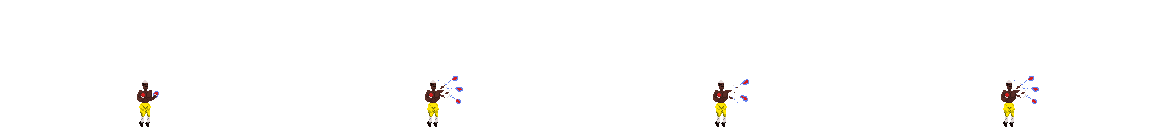
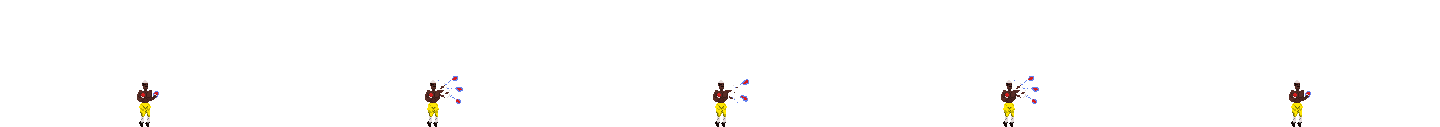
Boxer hitboxes fixed

diff --git a/Batali/Constants.h b/Batali/Constants.h
@@ -129,18 +129,18 @@ namespace constants
 	constexpr float BOXER_SPEED{ 260.f };
 	constexpr float BOXER_JUMP_HEIGHT{ 100.f };
 
-	constexpr float BOXER_ROLL_SPEED{ 145.f };
+	constexpr float BOXER_ROLL_SPEED{ 160.f };
 
 	constexpr int BOXER_HP{ 1000 };
 
-	constexpr float BOXER_ATTACK_1_WIDTH{ 20.f };
-	constexpr float BOXER_ATTACK_1_HEIGHT{ 20.f };
+	constexpr float BOXER_ATTACK_1_WIDTH{ 33.f };
+	constexpr float BOXER_ATTACK_1_HEIGHT{ 15.f };
 
-	constexpr float BOXER_ATTACK_2_WIDTH{ 20.f };
-	constexpr float BOXER_ATTACK_2_HEIGHT{ 20.f };
+	constexpr float BOXER_ATTACK_2_WIDTH{ 8.f };
+	constexpr float BOXER_ATTACK_2_HEIGHT{ 10.f };
 
-	constexpr float BOXER_AIR_ATTACK_WIDTH{ 20.f };
-	constexpr float BOXER_AIR_ATTACK_HEIGHT{ 20.f };
+	constexpr float BOXER_AIR_ATTACK_WIDTH{ 30.f };
+	constexpr float BOXER_AIR_ATTACK_HEIGHT{ 25.f };
 
 	constexpr float BOXER_ULTIMATE_WIDTH{ 25.f };
 	constexpr float BOXER_ULTIMATE_HEIGHT{ 20.f };
@@ -228,14 +228,14 @@ namespace constants
 
 	/* BOXER FRAMES */
 
-	constexpr int BOXER_ATTACK_1_STARTING_FRAME{ 0 };
-	constexpr int BOXER_ATTACK_1_ENDING_FRAME{ 1 };
+	constexpr int BOXER_ATTACK_1_STARTING_FRAME{ 4 };
+	constexpr int BOXER_ATTACK_1_ENDING_FRAME{ 5 };
 
-	constexpr int BOXER_ATTACK_2_STARTING_FRAME{ 1 };
+	constexpr int BOXER_ATTACK_2_STARTING_FRAME{ 7 };
 	constexpr int BOXER_ATTACK_2_ENDING_FRAME{ 7 };
 
-	constexpr int BOXER_AIR_ATTACK_STARTING_FRAME{ 2 };
-	constexpr int BOXER_AIR_ATTACK_ENDING_FRAME{ 5 };
+	constexpr int BOXER_AIR_ATTACK_STARTING_FRAME{ 1 };
+	constexpr int BOXER_AIR_ATTACK_ENDING_FRAME{ 4 };
 
 	constexpr int BOXER_ULTIMATE_PT_1_FRAME{ 9 };
 	constexpr int BOXER_ULTIMATE_PT_2_FRAME{ 13 };

diff --git a/Batali/Boxer.cpp b/Batali/Boxer.cpp
@@ -42,7 +42,7 @@ void Boxer::updateAttackHitbox()
 
 	if (m_currentTexture == m_entityName + "Attack1")
 	{
-		m_attackHitboxPosition = getShapePosition();
+		m_attackHitboxPosition = getShapePosition() + sf::Vector2f{0.f, -15.f};
 
 		if (m_frameCount >= BOXER_ATTACK_1_STARTING_FRAME && m_frameCount <= BOXER_ATTACK_1_ENDING_FRAME && !m_animationEnd)
 		{
@@ -54,7 +54,7 @@ void Boxer::updateAttackHitbox()
 	}
 	else if (m_currentTexture == m_entityName + "Attack2")
 	{
-		m_attackHitboxPosition = getShapePosition();
+		m_attackHitboxPosition = getShapePosition() + sf::Vector2f{16.f * m_facingRight, -28.f};
 
 		if (m_frameCount >= BOXER_ATTACK_2_STARTING_FRAME && m_frameCount <= BOXER_ATTACK_2_ENDING_FRAME && !m_animationEnd)
 		{
@@ -66,7 +66,7 @@ void Boxer::updateAttackHitbox()
 	}
 	else if (m_currentTexture == m_entityName + "AirAttack")
 	{
-		m_attackHitboxPosition = getShapePosition();
+		m_attackHitboxPosition = getShapePosition() + sf::Vector2f{0.f, -20.f};
 
 		if (m_frameCount >= BOXER_AIR_ATTACK_STARTING_FRAME && m_frameCount <= BOXER_AIR_ATTACK_ENDING_FRAME && !m_animationEnd)
 		{

diff --git a/Batali/PlayingState.cpp b/Batali/PlayingState.cpp
@@ -289,7 +289,7 @@ void PlayingState::updateTexturesAndAnimations()
 		if (!m_onPause)
 		{
 			// If there isn't a thread sleep or if the milliseconds time is too short, the animation will run so fast that it bugs and doesn't display sprites correctly
-			std::this_thread::sleep_for(std::chrono::milliseconds(75));
+			std::this_thread::sleep_for(std::chrono::milliseconds(65));
 
 			for (auto& character : m_characters)
 			{
